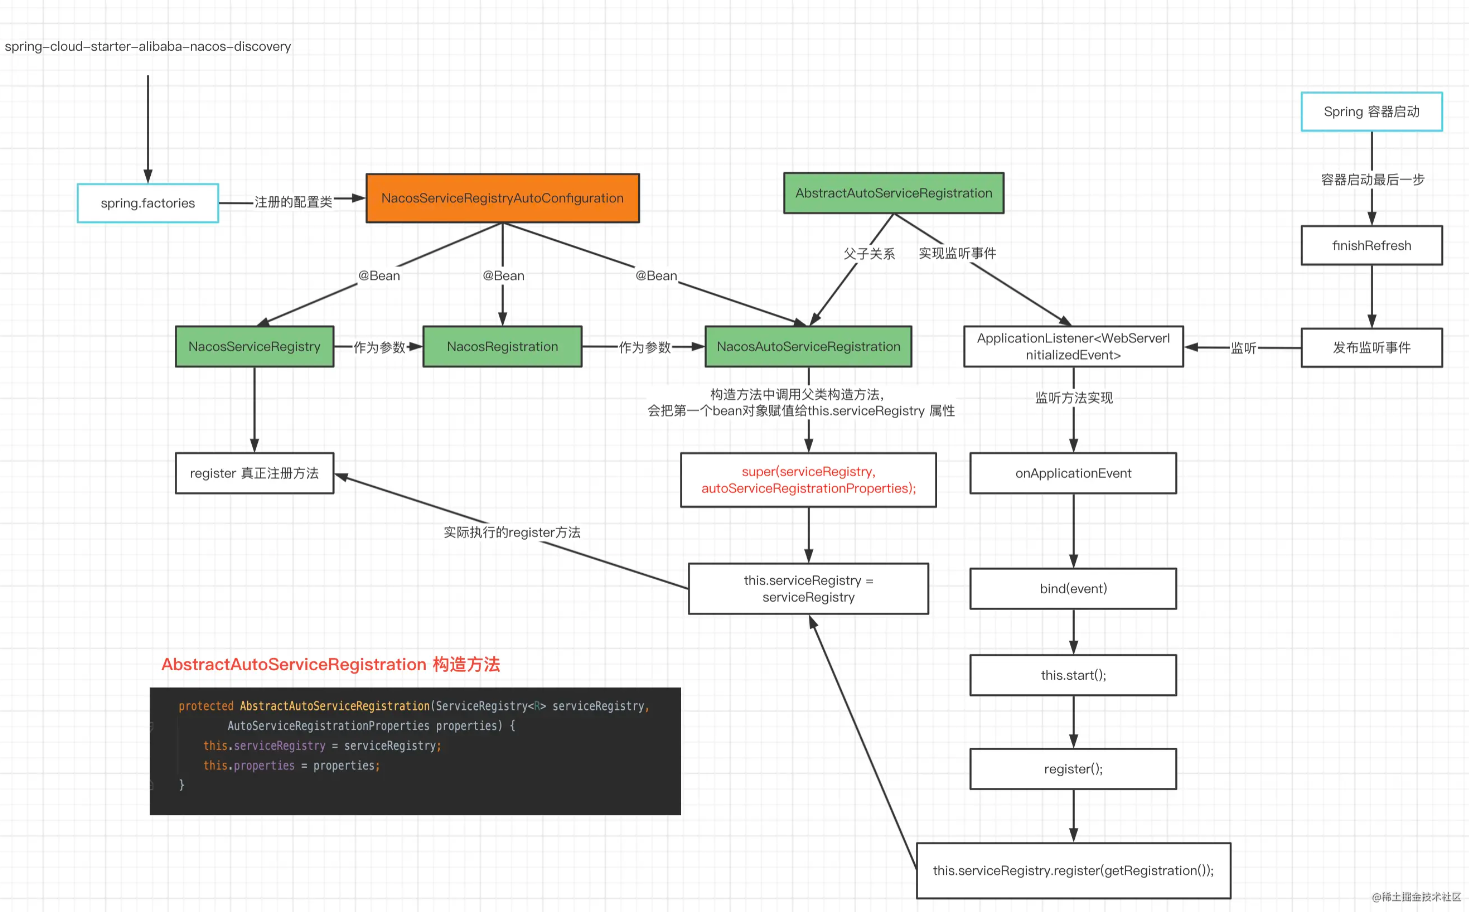
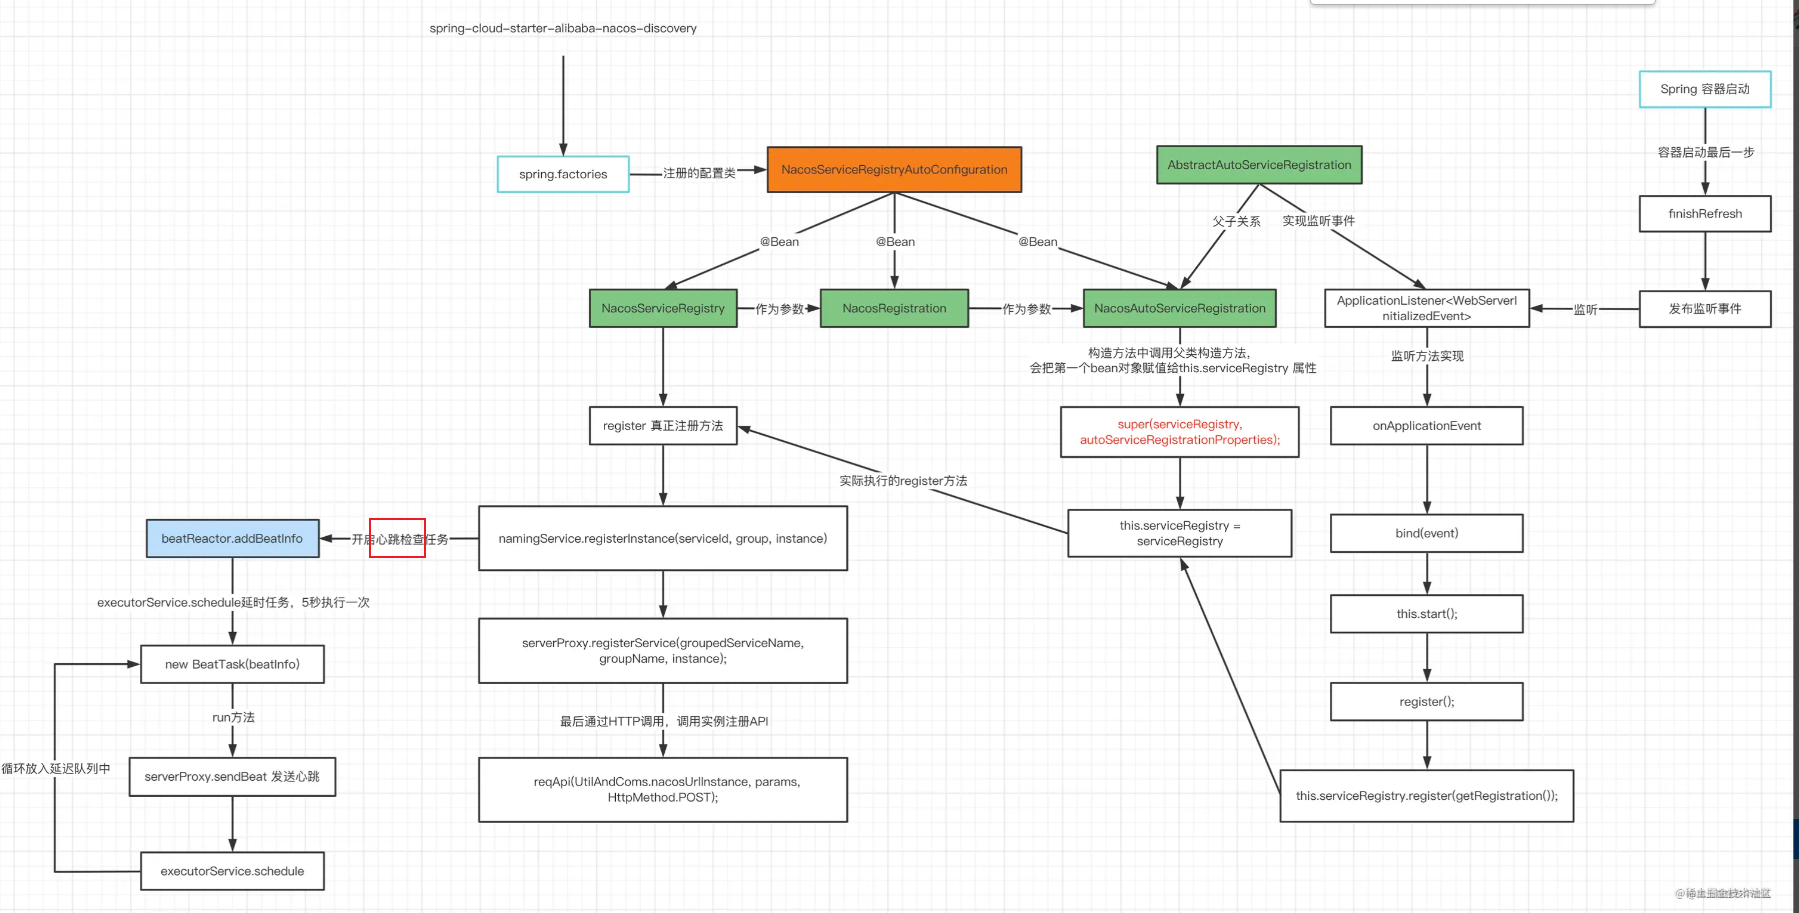
2023年7月9日

diff --git a/spring-cloud/spring.md b/spring-cloud/spring.md
@@ -1,0 +1,21 @@
+# 控制反转（ Inverse of Control , IOC ）
+
+IOC：不直接控制import那个具体类，而是把控制权交给容器，由容器决定import哪个组件。
+
+https://javadoop.com/post/spring-ioc
+
+## BeanFactory
+
+BeanFactory 是生产和管理 Bean的实例。
+
+### Bean
+
+* Bean 可以理解为 BeanDefinition 实例。我们自己定义的各个 Bean 其实会转换成一个个 BeanDefinition 存在于 Spring 的 BeanFactory 中。BeanDefinition 中保存了我们的 Bean 信息，比如这个 Bean 指向的是哪个类、是否是单例的、是否懒加载、这个 Bean 依赖了哪些 Bean 等等。
+
+## ApplicationContext
+
+![3](./pic/applicationcontext.png)
+
+* ApplicationContext 继承自 BeanFactory，但是它不应该被理解为 BeanFactory 的实现类，而是说其内部持有一个实例化的 BeanFactory（DefaultListableBeanFactory）。以后所有的 BeanFactory 相关的操作其实是委托给这个实例来处理的。
+
+  ApplicationContext 既继承了BeanFactory，也组合了BeanFactory

diff --git a/spring-cloud/nacos.md b/spring-cloud/nacos.md
@@ -1,0 +1,20 @@
+# Nacos 配置中心
+
+https://juejin.cn/book/7180604185786712075/section/7181705133464977468
+
+## 服务发现
+
+### 客户端
+
+#### 服务注册
+
+* **客户端怎么进行服务注册的？**
+
+  1. spring读取nacos提供的`spring.factories`文件，创建其中的配置类`NacosServiceRegistryAutoConfiguration`
+  2. 配置类会注册两个Bean，其中一个Bean——`NacosServiceRegistry`，其`register`方法包含实际注册的代码逻辑。另一个 Bean——`NacosAutoServiceRegistration` 会依赖`NacosServiceRegistry`
+  3. 利用 **Spring 事件监听**(`ApplicationListener.onApplicationEvent`) ，在监听方法中最终会调用的 `register` 方法，从而完成自动注册。
+  4. 在 register 方法会发送http请求给nacos服务端，完成服务注册（同时会启动心跳定时任务，定时发送心跳）。
+
+  ![image-20230708173228498](./pic/image-20230708152444653.png)
+
+  

diff --git a/spring-cloud/basic.md b/spring-cloud/basic.md
@@ -8,17 +8,7 @@ https://www.macrozheng.com/cloud/sentinel.html
 
 https://zhuanlan.zhihu.com/p/112539441
 
-## Nacos 服务发现/配置中心
 
-* **客户端项目启动，是怎么自动发起服务注册？**
-
-  1. spring读取nacos提供的`spring.factories`文件，创建其中的配置类`NacosServiceRegistryAutoConfiguration`
-  2. 配置类会注册两个Bean，其中一个Bean——`NacosServiceRegistry`，其`register`方法包含实际注册的代码逻辑。另一个 Bean——`NacosAutoServiceRegistration` 会依赖`NacosServiceRegistry`
-  3. 利用 **`Spring`** **`事件监听`** ，在监听的方法中`onApplicationEvent`最终会调用的 `register` 方法，从而完成自动注册。
-
-  ![image-20230708152444653](./pic/image-20230708152444653.png)
-
-  
 
 ## Zuul vs Spring Cloud Gateway
 
